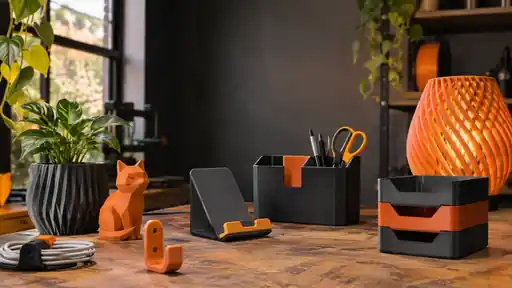
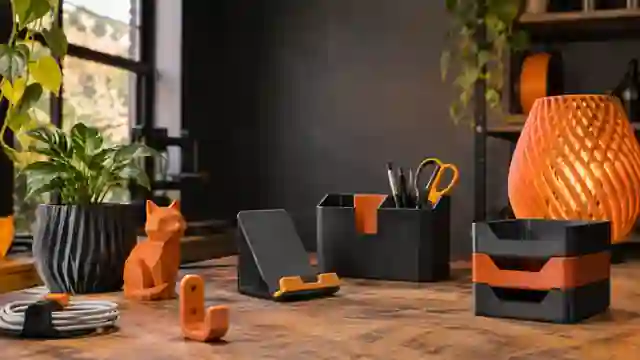
Use realistic product photo with softly blurred background

diff --git a/index.html b/index.html
@@ -12,7 +12,8 @@
 [data-theme="light"]{color-scheme:light;--panel:rgba(247,249,250,.87);--panel-soft:rgba(255,255,255,.78);--text:#17232a;--muted:#5e6c75;--line:#1826302a;--accent:#a85d10;--accent-soft:#d9812023;--shadow:0 22px 75px #0b1b281c}
 *{box-sizing:border-box}
 html{min-height:100%;background:#0b1015}
-body{position:relative;min-height:100vh;margin:0;padding:28px 18px 22px;display:grid;place-items:center;color:var(--text);font-family:Inter,ui-sans-serif,system-ui,-apple-system,"Segoe UI",sans-serif;background-image:linear-gradient(110deg,rgba(7,11,15,.70),rgba(7,11,15,.60) 52%,rgba(7,11,15,.72)),url("assets/perform3-products.webp");background-size:cover;background-position:center;background-attachment:fixed;transition:color .25s}
+body{position:relative;isolation:isolate;min-height:100vh;margin:0;padding:28px 18px 22px;display:grid;place-items:center;color:var(--text);font-family:Inter,ui-sans-serif,system-ui,-apple-system,"Segoe UI",sans-serif;background:var(--bg);transition:color .25s}
+.background-photo{position:fixed;inset:-12px;z-index:-1;pointer-events:none;background-image:url("assets/perform3-products.webp");background-size:cover;background-position:center;background-repeat:no-repeat;filter:blur(8px);transform:scale(1.035)}
 body:before{content:"";position:fixed;inset:0;pointer-events:none;background:radial-gradient(ellipse at 50% 35%,transparent 0%,rgba(0,0,0,.22) 75%);z-index:0}
 .page{position:relative;z-index:1;width:min(100%,540px);margin:auto}
 .topbar{display:flex;justify-content:flex-end;margin-bottom:12px}
@@ -48,6 +49,7 @@ footer{margin-top:17px;color:#e5eaedb5;text-align:center;font-size:10px;letter-s
 </style>
 </head>
 <body>
+<div class="background-photo" aria-hidden="true"></div>
 <main class="page">
   <div class="topbar">
     <button class="theme-toggle" id="toggle" type="button" aria-label="Alternar tema">
